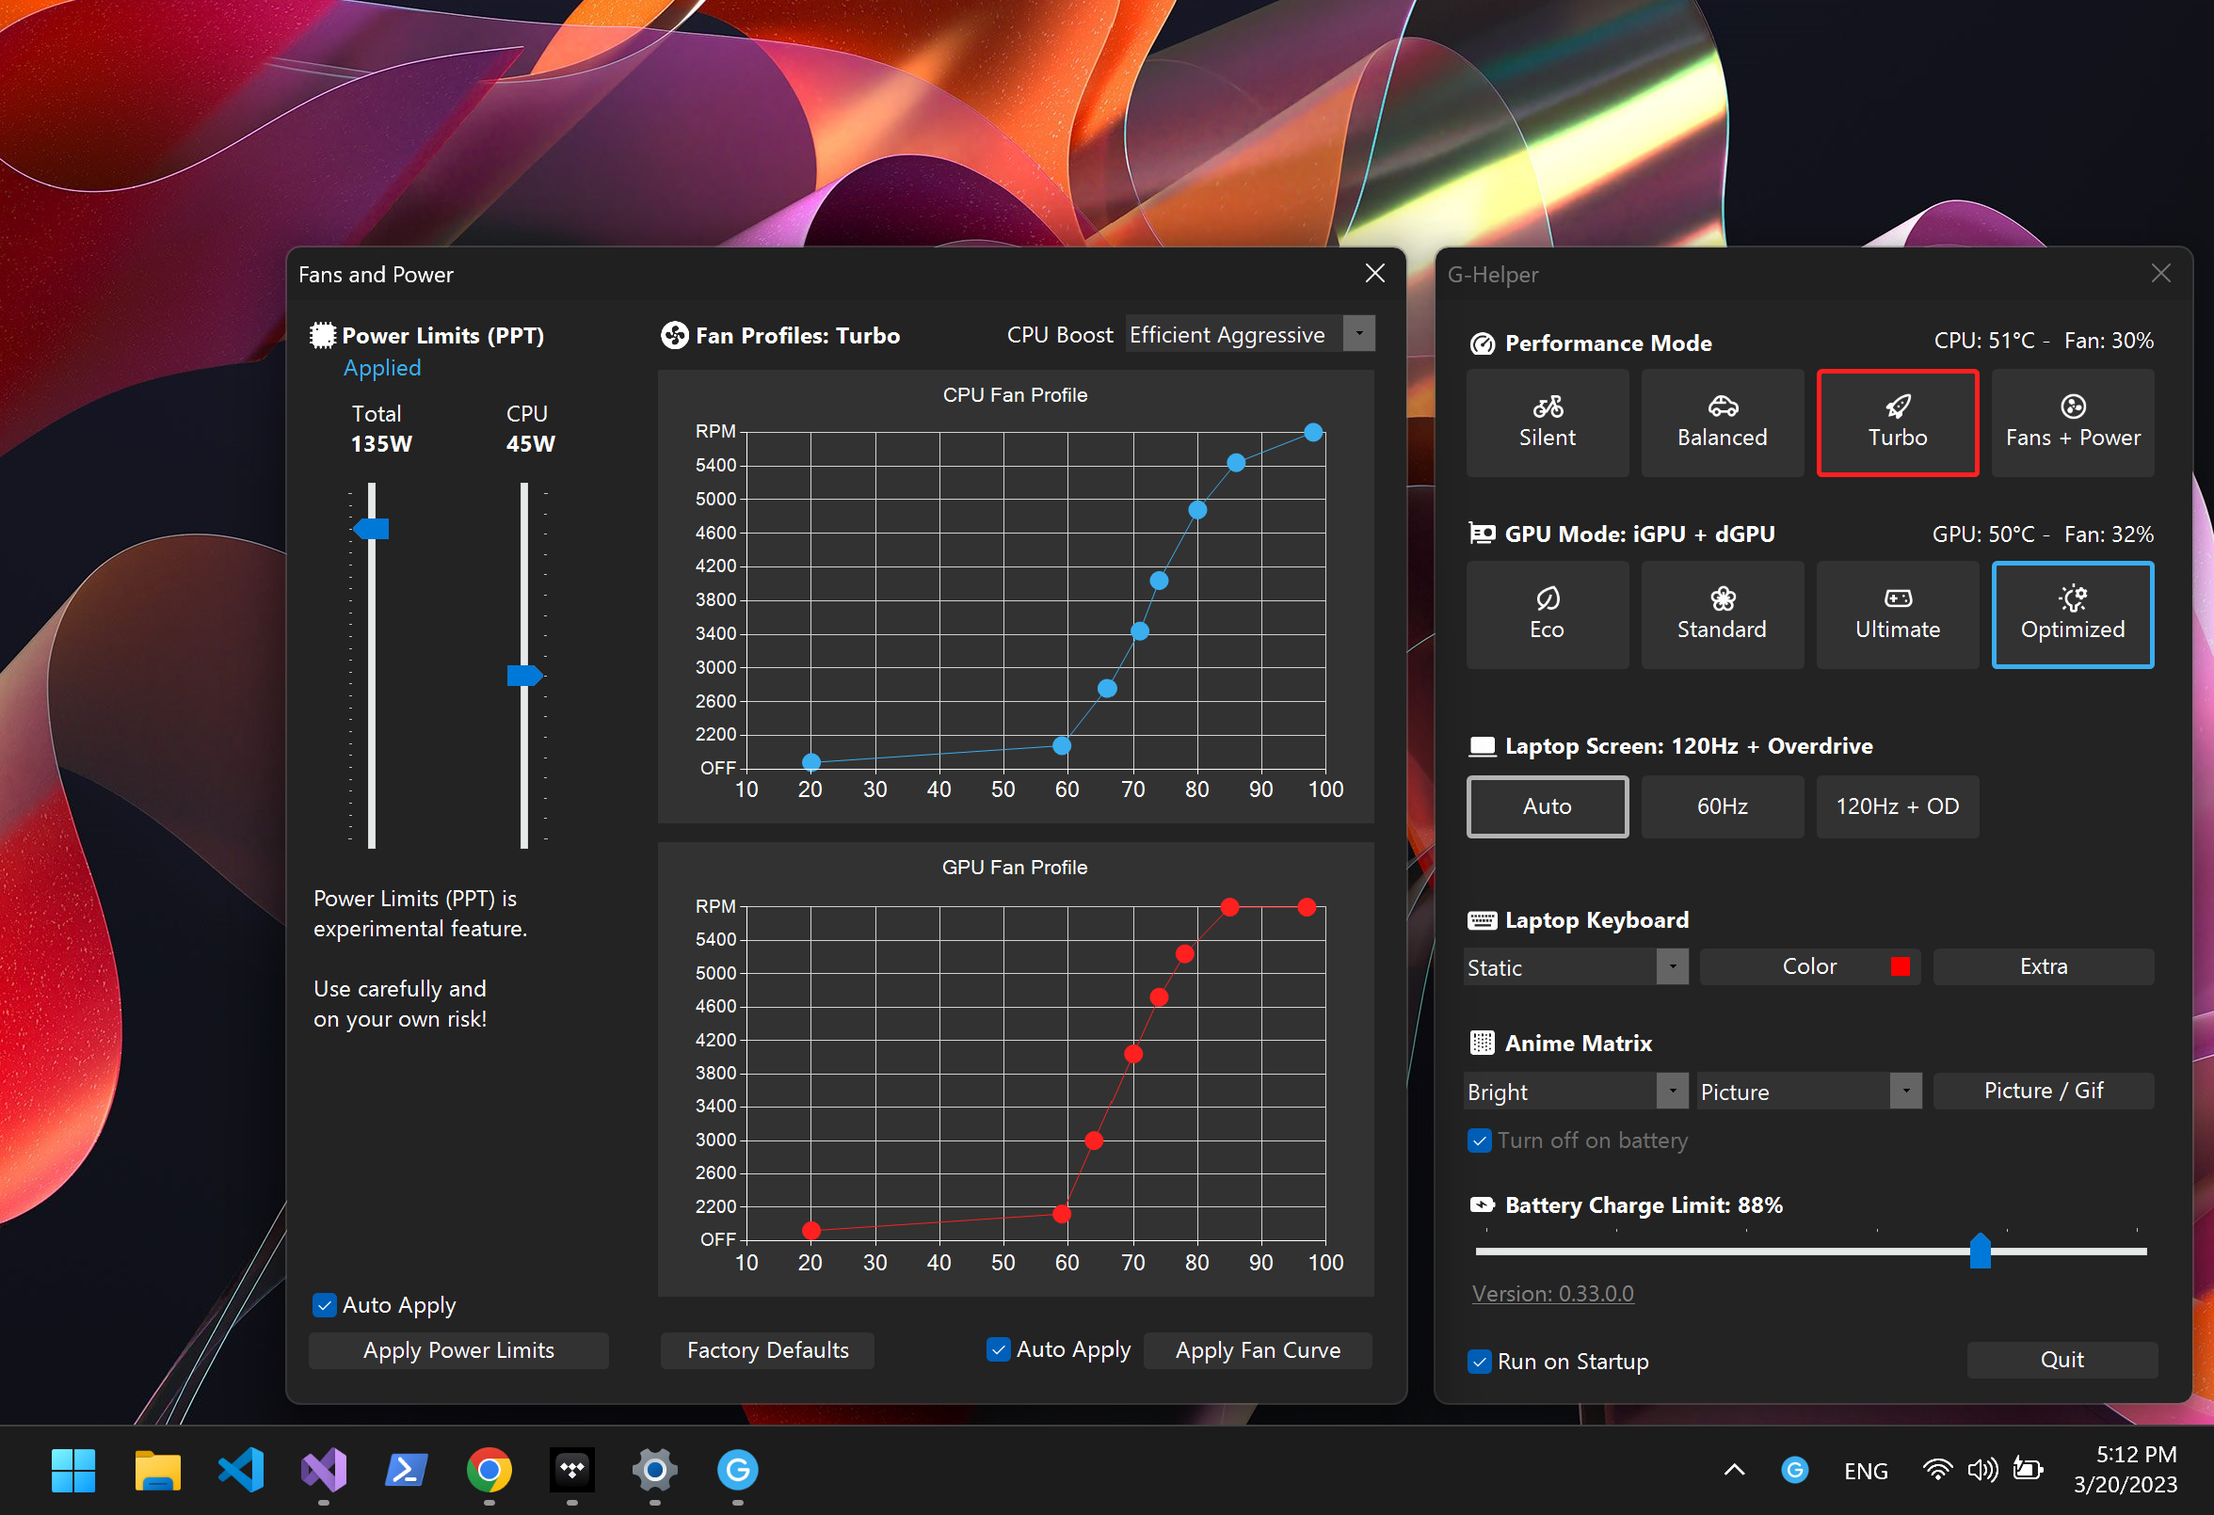
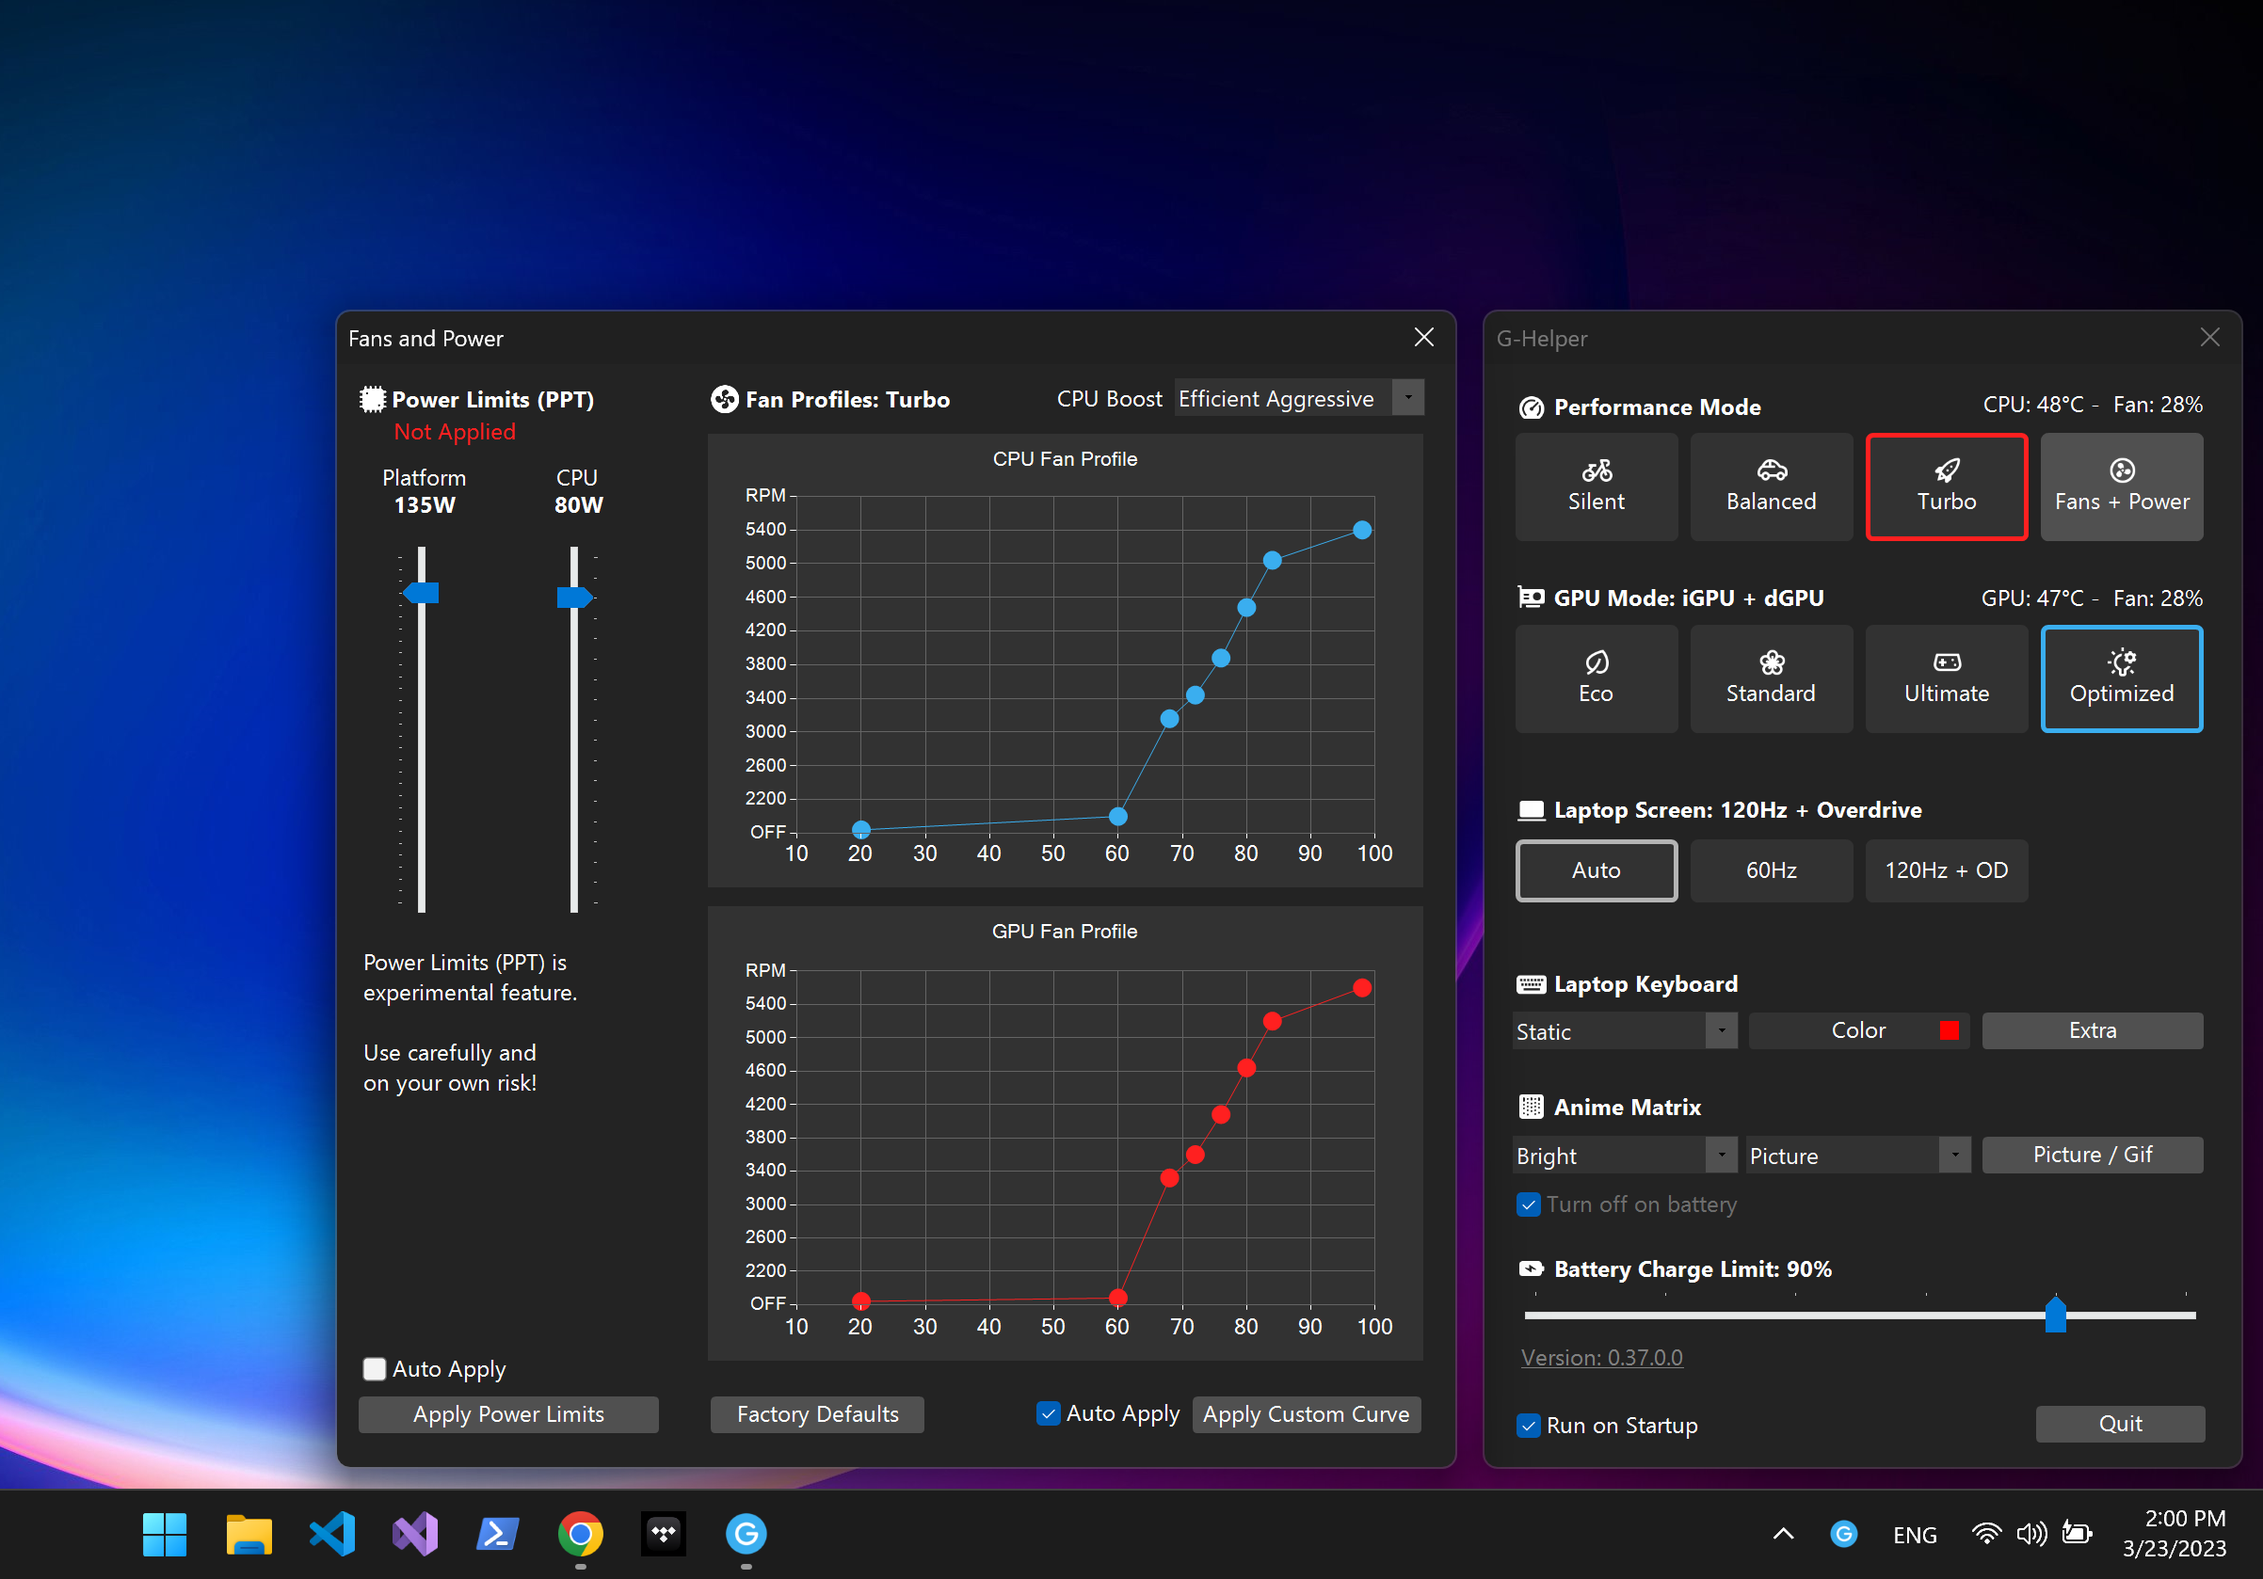
Update checker fixes

diff --git a/app/Settings.cs b/app/Settings.cs
@@ -2,6 +2,8 @@
 using Starlight.AnimeMatrix;
 using System.Diagnostics;
 using System.Drawing.Imaging;
+using System.Reflection;
+using System.Text.Json;
 using System.Timers;
 
 namespace GHelper
@@ -23,7 +25,7 @@ namespace GHelper
         public Keyboard keyb;
 
         static AnimeMatrixDevice mat;
-        static long lastTip;
+        static long lastRefresh;
 
         public SettingsForm()
         {
@@ -56,8 +58,6 @@ namespace GHelper
             buttonUltimate.Click += ButtonUltimate_Click;
 
             VisibleChanged += SettingsForm_VisibleChanged;
-
-            trackBattery.Scroll += trackBatteryChange;
 
             button60Hz.Click += Button60Hz_Click;
             button120Hz.Click += Button120Hz_Click;
@@ -117,6 +117,7 @@ namespace GHelper
             button120Hz.MouseMove += Button120Hz_MouseHover;
             button120Hz.MouseLeave += ButtonScreen_MouseLeave;
 
+            trackBattery.ValueChanged += TrackBattery_ValueChanged;
             Program.trayIcon.MouseMove += TrayIcon_MouseMove;
 
             //buttonStandard.Image = (Image)(new Bitmap(buttonStandard.Image, new Size(16, 16)));
@@ -124,21 +125,72 @@ namespace GHelper
             aTimer = new System.Timers.Timer(500);
             aTimer.Elapsed += OnTimedEvent;
 
+            SetVersionLabel("Version: " + Assembly.GetExecutingAssembly().GetName().Version);
+            Thread t = new Thread(() =>
+            {
+                CheckForUpdatesAsync();
+            });
+            t.Start();
+            t.Join();
+
+        }
+
+        private void TrackBattery_ValueChanged(object? sender, EventArgs e)
+        {
+            SetBatteryChargeLimit(trackBattery.Value);
+        }
+
+
+        public async void CheckForUpdatesAsync()
+        {
+
+            try
+            {
+
+                using (var httpClient = new HttpClient())
+                {
+                    httpClient.DefaultRequestHeaders.Add("User-Agent", "C# App");
+                    var json = await httpClient.GetStringAsync("https://api.github.com/repos/seerge/g-helper/releases/latest");
+                    var config = JsonSerializer.Deserialize<JsonElement>(json);
+                    var tag = config.GetProperty("tag_name").ToString().Replace("v", "");
+                    var url = config.GetProperty("assets")[0].GetProperty("browser_download_url").ToString();
+
+                    Thread.Sleep(5000);
+
+                    var gitVersion = new Version(tag);
+                    var appVersion = new Version(Assembly.GetExecutingAssembly().GetName().Version.ToString());
+
+                    if (gitVersion.CompareTo(appVersion) > 0)
+                    {
+                        BeginInvoke(delegate
+                        {
+                            SetVersionLabel("Download Update: " + tag, url);
+                        });
+                    }
+                    else
+                    {
+                        Debug.WriteLine("Latest version");
+                    }
+
+                }
+            }
+            catch (Exception ex)
+            {
+                //Logger.WriteLine("Failed to check for updates:" + ex.Message);
+
+            }
+
         }
 
         private static void TrayIcon_MouseMove(object? sender, MouseEventArgs e)
         {
-            if (Math.Abs(DateTimeOffset.Now.ToUnixTimeMilliseconds() - lastTip) < 2000) return;
-            lastTip = DateTimeOffset.Now.ToUnixTimeMilliseconds();
             RefreshSensors();
         }
 
 
         private static void OnTimedEvent(Object? source, ElapsedEventArgs? e)
         {
-            aTimer.Interval = 2000;
-            if (Program.settingsForm.Visible)
-                RefreshSensors();
+            RefreshSensors();
         }
 
         private void Button120Hz_MouseHover(object? sender, EventArgs e)
@@ -233,12 +285,12 @@ namespace GHelper
         }
 
 
-        public void SetVersionLabel(string label, string url = null)
+        void SetVersionLabel(string label, string url = null)
         {
             labelVersion.Text = label;
             if (url is not null)
             {
-                versionUrl = url;
+                this.versionUrl = url;
                 labelVersion.ForeColor = Color.Red;
             }
         }
@@ -798,6 +850,9 @@ namespace GHelper
         private static void RefreshSensors()
         {
 
+            if (Math.Abs(DateTimeOffset.Now.ToUnixTimeMilliseconds() - lastRefresh) < 2000) return;
+            lastRefresh = DateTimeOffset.Now.ToUnixTimeMilliseconds();
+
             string cpuFan = FormatFan(Program.wmi.DeviceGet(ASUSWmi.CPU_Fan));
             string gpuFan = FormatFan(Program.wmi.DeviceGet(ASUSWmi.GPU_Fan));
             string midFan = FormatFan(Program.wmi.DeviceGet(ASUSWmi.Mid_Fan));
@@ -1084,7 +1139,7 @@ namespace GHelper
 
             labelGPU.Text = "GPU Mode: Changing ...";
 
-            new Thread(() =>
+            Thread t = new Thread(() =>
             {
                 Thread.CurrentThread.IsBackground = true;
 
@@ -1099,14 +1154,13 @@ namespace GHelper
                 Program.settingsForm.BeginInvoke(delegate
                 {
                     InitGPUMode();
-                    HardwareMonitor.RecreateGpuTemperatureProviderWithRetry();
+                    HardwareMonitor.RecreateGpuTemperatureProviderWithDelay();
                     Thread.Sleep(500);
                     AutoScreen(SystemInformation.PowerStatus.PowerLineStatus);
                 });
-            })
-            {
+            });
 
-            }.Start();
+            t.Start();
 
         }
 
@@ -1162,7 +1216,6 @@ namespace GHelper
             if (changed)
             {
                 Program.config.setConfig("gpu_mode", GPUMode);
-                HardwareMonitor.RecreateGpuTemperatureProviderWithRetry();
             }
 
             if (restart)
@@ -1254,17 +1307,10 @@ namespace GHelper
 
             labelBatteryTitle.Text = "Battery Charge Limit: " + limit.ToString() + "%";
             trackBattery.Value = limit;
-            Program.wmi.DeviceSet(ASUSWmi.BatteryLimit, limit);
 
+            Program.wmi.DeviceSet(ASUSWmi.BatteryLimit, limit);
             Program.config.setConfig("charge_limit", limit);
 
-        }
-
-        private void trackBatteryChange(object? sender, EventArgs e)
-        {
-            if (sender is null) return;
-            TrackBar bar = (TrackBar)sender;
-            SetBatteryChargeLimit(bar.Value);
         }
 
 

diff --git a/app/Program.cs b/app/Program.cs
@@ -78,9 +78,6 @@ namespace GHelper
             // Subscribing for system power change events
             SystemEvents.PowerModeChanged += SystemEvents_PowerModeChanged;
 
-            settingsForm.SetVersionLabel("Version: " + Assembly.GetExecutingAssembly().GetName().Version);
-            CheckForUpdates();
-
 
             if (Environment.CurrentDirectory.Trim('\\') == Application.StartupPath.Trim('\\'))
             {
@@ -103,7 +100,7 @@ namespace GHelper
             {
                 case UserPreferenceCategory.General:
                     Debug.WriteLine("Theme Changed");
-                    Thread.Sleep(500);
+                    Thread.Sleep(1000);
                     settingsForm.InitTheme(false);
 
                     if (settingsForm.fans is not null && settingsForm.fans.Text != "")
@@ -116,39 +113,6 @@ namespace GHelper
             }
         }
 
-
-        static async void CheckForUpdates()
-        {
-
-            try
-            {
-                using (var httpClient = new HttpClient())
-                {
-                    httpClient.DefaultRequestHeaders.Add("User-Agent", "C# App");
-                    var json = await httpClient.GetStringAsync("https://api.github.com/repos/seerge/g-helper/releases/latest");
-                    var config = JsonSerializer.Deserialize<JsonElement>(json);
-                    var tag = config.GetProperty("tag_name").ToString().Replace("v", "");
-                    var url = config.GetProperty("assets")[0].GetProperty("browser_download_url").ToString();
-
-                    var gitVersion = new Version(tag);
-                    var appVersion = new Version(Assembly.GetExecutingAssembly().GetName().Version.ToString());
-                    if (gitVersion.CompareTo(appVersion) > 0)
-                    {
-                        settingsForm.BeginInvoke(delegate
-                        {
-                            settingsForm.SetVersionLabel("Download Update: " + tag, url);
-                        });
-                    }
-
-                }
-            }
-            catch (Exception ex) 
-            {
-                Logger.WriteLine("Failed to check for updates:"+ ex.Message);
-                
-            }
-
-        }
 
 
         public static void SetAutoModes(bool wait = false)

diff --git a/app/ControlHelper.cs b/app/ControlHelper.cs
@@ -6,7 +6,7 @@ public static class ControlHelper
 {
 
     static bool _invert = false;
-    static bool _resize = false;
+    static bool _darkTheme = false;
 
     static float _scale = 1;
 
@@ -20,11 +20,13 @@ public static class ControlHelper
     public static void Adjust(RForm container, bool darkTheme = false, bool invert = false)
     {
 
+        _darkTheme = darkTheme;
+
         if (darkTheme)
         {
             formBack = Color.FromArgb(255, 35, 35, 35);
             backMain = Color.FromArgb(255, 50, 50, 50);
-            foreMain = Color.White;
+            foreMain = Color.FromArgb(255, 240, 240, 240);
             foreAccent = Color.FromArgb(255, 100, 100, 100);
             borderMain = Color.FromArgb(255, 50, 50, 50);
             buttonMain = Color.FromArgb(255, 80, 80, 80);
@@ -115,8 +117,6 @@ public static class ControlHelper
             {
                 chart.BackColor = backMain;
                 chart.ChartAreas[0].BackColor = backMain;
-                chart.ChartAreas[0].AxisX.MajorGrid.LineColor = foreAccent;
-                chart.ChartAreas[0].AxisY.MajorGrid.LineColor = foreAccent;
 
                 chart.ChartAreas[0].AxisX.TitleForeColor = foreMain;
                 chart.ChartAreas[0].AxisY.TitleForeColor = foreMain;
@@ -127,6 +127,8 @@ public static class ControlHelper
                 chart.ChartAreas[0].AxisX.MajorTickMark.LineColor = foreMain;
                 chart.ChartAreas[0].AxisY.MajorTickMark.LineColor = foreMain;
 
+                chart.ChartAreas[0].AxisX.MajorGrid.LineColor = foreAccent;
+                chart.ChartAreas[0].AxisY.MajorGrid.LineColor = foreAccent;
                 chart.ChartAreas[0].AxisX.LineColor = foreAccent;
                 chart.ChartAreas[0].AxisY.LineColor = foreAccent;
 

diff --git a/app/AnimeMatrix/AnimeMatrixDevice.cs b/app/AnimeMatrix/AnimeMatrixDevice.cs
@@ -90,7 +90,7 @@ namespace Starlight.AnimeMatrix
                 MaxColumns = 33;
 
                 FullRows = 7;
-                FullEvenRows = 1;
+                FullEvenRows = 3;
 
                 MaxRows = 55;
                 LedCount = 1214;
@@ -151,7 +151,11 @@ namespace Starlight.AnimeMatrix
 
         public int XEnd(int row)
         {
-            if (row <= FullEvenRows && row % 2 == 0) return MaxColumns - 1;
+            if (row <= FullEvenRows)
+            {
+                if (row % 2 == 1) return MaxColumns + 2;
+                else return MaxColumns;
+            }
             return MaxColumns;
         }
 
@@ -196,7 +200,7 @@ namespace Starlight.AnimeMatrix
         {
             EnsureRowInRange(y);
             var start = RowToLinearAddress(y) - XStart(y);
-            if (x >= XStart(y) && x < XEnd(y))
+            if (x >= XStart(y) && x < MaxColumns)
             {
                 SetLedLinear(start + x, value);
             }
@@ -325,12 +329,14 @@ namespace Starlight.AnimeMatrix
                 using (Bitmap bmp = new Bitmap(canvas, MaxColumns * 2, MaxRows))
                 {
                     for (int y = 0; y < bmp.Height; y++)
+                    {
                         for (int x = 0; x < bmp.Width; x++)
                             if (x % 2 == y % 2)
                             {
                                 var pixel = bmp.GetPixel(x, y);
-                                SetLedPlanar(x / 2, y, (byte)((pixel.R + pixel.G + pixel.B)/3));
+                                SetLedPlanar(x / 2, y, (byte)((pixel.R + pixel.G + pixel.B) / 3));
                             }
+                    }
                 }
             }
 

diff --git a/app/HardwareMonitor.cs b/app/HardwareMonitor.cs
@@ -46,15 +46,17 @@ public static class HardwareMonitor
 
     }
 
-    public static void RecreateGpuTemperatureProviderWithRetry() {
-        RecreateGpuTemperatureProvider();
+    public static void RecreateGpuTemperatureProviderWithDelay() {
 
         // Re-enabling the discrete GPU takes a bit of time,
         // so a simple workaround is to refresh again after that happens
         Task.Run(async () => {
-            await Task.Delay(TimeSpan.FromSeconds(3));
+            await Task.Delay(TimeSpan.FromSeconds(5));
             RecreateGpuTemperatureProvider();
         });
+
+
+
     }
 
     public static void RecreateGpuTemperatureProvider() {

diff --git a/app/Fans.cs b/app/Fans.cs
@@ -47,6 +47,13 @@ namespace GHelper
 
             chart.ChartAreas[0].AxisY.LabelStyle.Font = new Font("Arial", 7F);
 
+            var foreAccent = Color.FromArgb(255, 100, 100, 100);
+
+            chart.ChartAreas[0].AxisX.MajorGrid.LineColor = foreAccent;
+            chart.ChartAreas[0].AxisY.MajorGrid.LineColor = foreAccent;
+            chart.ChartAreas[0].AxisX.LineColor = foreAccent;
+            chart.ChartAreas[0].AxisY.LineColor = foreAccent;
+
             for (int i = 0; i <= 90; i += 10)
                 chart.ChartAreas[0].AxisY.CustomLabels.Add(i - 2, i + 2, ChartPercToRPM(i));
 
